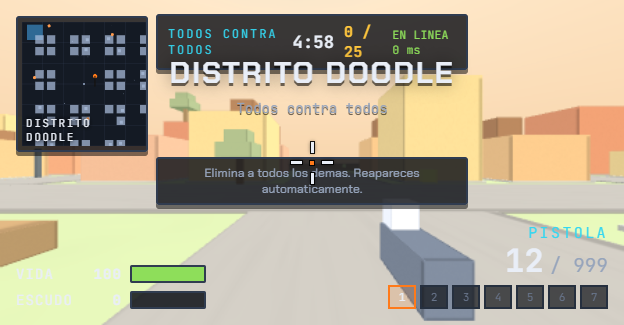
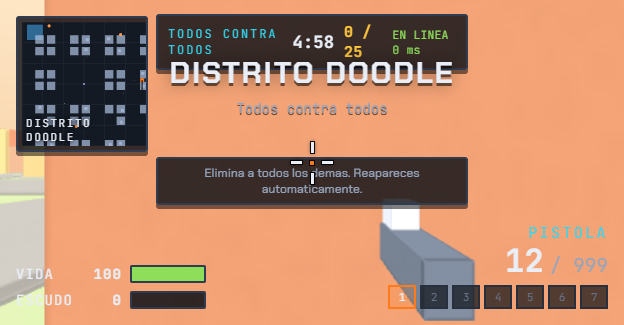
fix(multijugador): el campo del codigo de sala ya recibe el teclado
El juego capturaba el teclado a nivel global para WASD y se comia las letras al escribir en los formularios del menu: un codigo como 4WF2B no se podia teclear. Ahora la captura se desactiva cuando el foco esta en un input, textarea o select, lo que tambien arregla el campo del nombre y el atajo Ctrl+V.

Interfaz: el recuadro del codigo propio queda marcado como solo lectura (apagado) y el de unirse como editable (con contorno y fondo distintos), con etiquetas explicitas, boton PEGAR, mayusculas automaticas y Enter para unirse.

Herramientas: tools/typingtest.js escribe el codigo con pulsaciones reales de teclado y comprueba que el campo lo recibe.

diff --git a/tools/typingtest.js b/tools/typingtest.js
@@ -1,0 +1,166 @@
+/* Prueba de regresion: escribe un codigo de sala con pulsaciones REALES de teclado en el
+   campo de "unirse" y comprueba que el juego no se las come.
+   Uso: node tools/typingtest.js */
+'use strict';
+
+var child = require('child_process');
+var fs = require('fs');
+var path = require('path');
+var os = require('os');
+
+var ROOT = path.resolve(path.join(__dirname, '..'));
+var PORT = 8171;
+var CHROME = [
+  'C:\\Program Files\\Google\\Chrome\\Application\\chrome.exe',
+  'C:\\Program Files (x86)\\Google\\Chrome\\Application\\chrome.exe',
+  'C:\\Program Files (x86)\\Microsoft\\Edge\\Application\\msedge.exe',
+  'C:\\Program Files\\Microsoft\\Edge\\Application\\msedge.exe'
+].find(function (p) { return fs.existsSync(p); });
+
+function sleep(ms) { return new Promise(function (r) { setTimeout(r, ms); }); }
+function get(url) { return fetch(url).then(function (r) { return r.json(); }); }
+
+function Client(wsUrl) {
+  var self = this;
+  this.id = 0;
+  this.pending = new Map();
+  this.ws = new WebSocket(wsUrl);
+  this.ready = new Promise(function (resolve, reject) {
+    self.ws.addEventListener('open', function () { resolve(); });
+    self.ws.addEventListener('error', function () { reject(new Error('ws')); });
+  });
+  this.ws.addEventListener('message', function (ev) {
+    var m;
+    try { m = JSON.parse(ev.data); } catch (e) { return; }
+    if (m.id && self.pending.has(m.id)) {
+      var p = self.pending.get(m.id);
+      self.pending.delete(m.id);
+      m.error ? p.reject(new Error(m.error.message)) : p.resolve(m.result);
+    }
+  });
+}
+Client.prototype.send = function (method, params) {
+  var self = this;
+  this.id++;
+  var id = this.id;
+  return new Promise(function (resolve, reject) {
+    self.pending.set(id, { resolve: resolve, reject: reject });
+    self.ws.send(JSON.stringify({ id: id, method: method, params: params || {} }));
+    setTimeout(function () {
+      if (self.pending.has(id)) { self.pending.delete(id); reject(new Error('timeout ' + method)); }
+    }, 60000);
+  });
+};
+Client.prototype.eval = function (expr) {
+  return this.send('Runtime.evaluate', { expression: expr, returnByValue: true, awaitPromise: true })
+    .then(function (r) { return r && r.result ? r.result.value : undefined; });
+};
+
+var VK = { 'W': 87, 'A': 65, 'S': 83, 'D': 68, 'F': 70, 'Q': 81, 'E': 69, 'R': 82, 'V': 86, 'C': 67, 'B': 66, 'K': 75, 'M': 77, '4': 52, '2': 50, '7': 55, '8': 56 };
+function codeFor(ch) {
+  if (/[0-9]/.test(ch)) return 'Digit' + ch;
+  return 'Key' + ch.toUpperCase();
+}
+
+(async function main() {
+  if (!CHROME) { console.log('No se encontro Chrome ni Edge.'); process.exit(1); }
+  var server = child.spawn(process.execPath, [path.join(__dirname, 'serve.js'), String(PORT)], { stdio: 'ignore' });
+  var profile = path.join(os.tmpdir(), 'blockburst-type-' + Date.now());
+  var chrome = child.spawn(CHROME, [
+    '--headless=new', '--hide-scrollbars', '--mute-audio', '--no-first-run',
+    '--no-default-browser-check', '--disable-extensions', '--enable-unsafe-swiftshader',
+    '--use-angle=swiftshader', '--window-size=900,700',
+    '--remote-debugging-port=9271', '--user-data-dir=' + profile, 'about:blank'
+  ], { stdio: 'ignore' });
+
+  var fail = [];
+  function killTree(pid) { if (pid) { try { child.execSync('taskkill /F /T /PID ' + pid, { stdio: 'ignore' }); } catch (e) { } } }
+  function killStrays() {
+    try { child.execSync('powershell -NoProfile -ExecutionPolicy Bypass -File "' + path.join(__dirname, 'kill-chrome.ps1') + '"', { stdio: 'ignore' }); } catch (e) { }
+  }
+
+  try {
+    await sleep(1600);
+    var list = null;
+    for (var i = 0; i < 40; i++) {
+      try { list = await get('http://127.0.0.1:9271/json/list'); break; } catch (e) { await sleep(400); }
+    }
+    if (!list) throw new Error('sin respuesta de Chrome');
+    var page = list.filter(function (t) { return t.type === 'page'; })[0];
+    var c = new Client(page.webSocketDebuggerUrl);
+    await c.ready;
+    await c.send('Page.enable');
+    await c.send('Runtime.enable');
+
+    var url = 'http://127.0.0.1:' + PORT + '/index.html?lowq=1&fps=3';
+    for (var k = 0; k < 3; k++) {
+      await c.send('Page.navigate', { url: url });
+      await sleep(3800 + k * 1500);
+      var ok = await c.eval('!!(window.BLITZ && window.BLITZ.debug && document.getElementById("loading").hidden === true)');
+      if (ok) break;
+      console.log('  (reintento de carga)');
+    }
+    await c.eval('document.querySelector(\'[data-tab="multi"]\').click(); 1');
+    await sleep(600);
+
+    // El anfitrion crea la sala y nos da un codigo real
+    await c.eval('document.getElementById("btnCreateRoom").click(); 1');
+    var code = null;
+    for (var j = 0; j < 30; j++) {
+      await sleep(400);
+      code = await c.eval('window.BLITZ.Net.room');
+      if (code) break;
+    }
+    console.log('codigo generado por el juego: ' + code);
+
+    // Enfocar el campo de unirse y escribir con pulsaciones REALES
+    await c.eval('(function(){var i=document.getElementById("roomCodeIn");i.focus();i.value="";return 1;})()');
+    await sleep(300);
+    var typed = String(code || '4WF2B').toLowerCase();
+    for (var n = 0; n < typed.length; n++) {
+      var ch = typed.charAt(n);
+      var up = ch.toUpperCase();
+      var vk = VK[up] || up.charCodeAt(0);
+      await c.send('Input.dispatchKeyEvent', {
+        type: 'keyDown', text: ch, unmodifiedText: ch, key: ch,
+        code: codeFor(up), windowsVirtualKeyCode: vk, nativeVirtualKeyCode: vk
+      });
+      await c.send('Input.dispatchKeyEvent', {
+        type: 'keyUp', key: ch, code: codeFor(up),
+        windowsVirtualKeyCode: vk, nativeVirtualKeyCode: vk
+      });
+      await sleep(60);
+    }
+
+    var value = await c.eval('document.getElementById("roomCodeIn").value');
+    console.log('escrito con el teclado: ' + JSON.stringify(typed) + '  ->  campo: ' + JSON.stringify(value));
+    if (value !== typed.toUpperCase()) {
+      fail.push('el campo no recibio todo lo tecleado (esperado ' + typed.toUpperCase() + ', obtenido ' + value + ')');
+    }
+    if (!/^[A-Z0-9]{4,8}$/.test(String(value))) fail.push('el campo no contiene un codigo valido: ' + value);
+
+    // El boton de unirse debe quedar operativo (no lanzar excepcion y avisar de sala inexistente)
+    await c.eval('document.getElementById("btnJoinRoom").click(); 1');
+    await sleep(1500);
+    var st = await c.eval('document.getElementById("roomStateText").textContent');
+    console.log('estado tras pulsar Unirse: ' + JSON.stringify(st));
+
+    // Captura del panel para revisar la interfaz
+    try {
+      var shot = await c.send('Page.captureScreenshot', { format: 'png' });
+      var outDir = path.join(ROOT, 'docs');
+      if (!fs.existsSync(outDir)) fs.mkdirSync(outDir, { recursive: true });
+      fs.writeFileSync(path.join(outDir, 'captura-unirse.png'), Buffer.from(shot.data, 'base64'));
+      console.log('captura del panel: docs/captura-unirse.png');
+    } catch (e) { }
+  } catch (err) {
+    fail.push(err.message);
+  } finally {
+    killTree(chrome.pid);
+    killTree(server.pid);
+    killStrays();
+  }
+
+  console.log(fail.length ? ('FALLOS: ' + fail.join(' | ')) : 'Campo de codigo verificado: se puede escribir con el teclado.');
+  process.exit(fail.length ? 1 : 0);
+})();

diff --git a/src/main.js b/src/main.js
@@ -164,26 +164,30 @@
       '<div class="panel" style="padding:16px;display:grid;gap:14px">' +
         '<div class="netState ' + stateKind + '" id="roomState"><i></i><span id="roomStateText" class="mono">' + B.esc(stateText) + '</span></div>' +
 
-        '<div id="roomOpenBox" style="display:' + (inRoom && host ? "grid" : "none") + ';gap:10px">' +
-          '<label class="field"><span>Codigo de la sala (pasalo a quien quieras invitar)</span></label>' +
+        '<div id="roomOpenBox" style="display:' + (inRoom && host ? "grid" : "none") + ';gap:8px">' +
+          '<label class="field"><span>Tu codigo de sala (solo lectura, se copia con el boton)</span></label>' +
           '<div style="display:flex;gap:10px;align-items:stretch;flex-wrap:wrap">' +
-            '<input id="roomCodeOut" class="netCode" style="min-height:44px;flex:1;min-width:180px" readonly value="' + B.esc(B.Net.room || "") + '">' +
+            '<input id="roomCodeOut" class="netCode readonly" style="min-height:44px;flex:1;min-width:180px" readonly value="' + B.esc(B.Net.room || "") + '">' +
             '<button id="btnCopyRoom" class="btn">COPIAR</button>' +
+            '<button id="btnCopyInvite" class="btn">COPIAR INVITACION</button>' +
           '</div>' +
         '</div>' +
 
         '<div style="display:flex;gap:10px;flex-wrap:wrap">' +
           '<button id="btnCreateRoom" class="btn primary"' + (inRoom ? " disabled" : "") + '>CREAR SALA</button>' +
-          '<button id="btnCopyInvite" class="btn">COPIAR INVITACION</button>' +
           '<button id="btnCloseRoom" class="btn"' + (inRoom ? "" : " disabled") + '>CERRAR SALA</button>' +
         '</div>' +
 
-        '<div style="display:grid;gap:10px">' +
-          '<label class="field"><span>Unirse con un codigo</span></label>' +
-        '</div>' +
-        '<div style="display:flex;gap:10px;flex-wrap:wrap">' +
-          '<input id="roomCodeIn" class="netCode" style="min-height:44px;flex:1;min-width:160px" placeholder="Escribe el codigo, por ejemplo K7M2P" maxlength="8">' +
-          '<button id="btnJoinRoom" class="btn primary"' + (inRoom ? " disabled" : "") + '>UNIRSE</button>' +
+        '<div style="border-top:2px solid var(--line-soft);padding-top:14px;display:grid;gap:8px">' +
+          '<label class="field"><span>Aqui si se escribe: si te han dado un codigo, unete</span></label>' +
+          '<div style="display:flex;gap:10px;flex-wrap:wrap">' +
+            '<input id="roomCodeIn" class="netCode write" style="min-height:46px;flex:1;min-width:170px;text-transform:uppercase;letter-spacing:0.22em" placeholder="Escribe el codigo, por ejemplo K7M2P" maxlength="8" autocomplete="off" spellcheck="false">' +
+            '<button id="btnPasteRoom" class="btn">PEGAR</button>' +
+            '<button id="btnJoinRoom" class="btn primary"' + (inRoom ? " disabled" : "") + '>UNIRSE</button>' +
+          '</div>' +
+          '<p class="dim" id="joinHint" style="font-size:12.5px;margin:0">' +
+            (inRoom ? "Estas dentro de una sala: cierrala si quieres unirte a otra." : "Pulsa primero en el recuadro y escribe; o pulsa PEGAR si lo copiaste.") +
+          '</p>' +
         '</div>' +
 
         '<div style="display:grid;gap:8px">' +
@@ -383,6 +387,29 @@
 
     var cr = $("btnCreateRoom"); if (cr) cr.addEventListener("click", function () { openRoom(true); });
     var jr = $("btnJoinRoom"); if (jr) jr.addEventListener("click", function () { openRoom(false); });
+    var ci2 = $("roomCodeIn");
+    if (ci2) {
+      ci2.addEventListener("input", function () { ci2.value = ci2.value.toUpperCase().replace(/[^A-Z0-9]/g, ""); });
+      ci2.addEventListener("keydown", function (ev) {
+        if (ev.key === "Enter") { ev.preventDefault(); openRoom(false); }
+      });
+    }
+    var bp = $("btnPasteRoom");
+    if (bp) bp.addEventListener("click", function () {
+      B.Audio.ui();
+      try {
+        if (navigator.clipboard && navigator.clipboard.readText) {
+          navigator.clipboard.readText().then(function (t) {
+            var clean = String(t || "").toUpperCase().replace(/[^A-Z0-9]/g, "").slice(0, 8);
+            if (!clean) { roomState("bad", "El portapapeles esta vacio o no tiene un codigo."); return; }
+            if (ci2) { ci2.value = clean; ci2.focus(); }
+            roomState("warn", "Codigo pegado: " + clean + ". Pulsa UNIRSE.");
+          }, function () { roomState("warn", "El navegador no dejo leer el portapapeles; escribe el codigo a mano."); });
+          return;
+        }
+      } catch (e) { }
+      roomState("warn", "Pega a mano con Ctrl+V dentro del recuadro.");
+    });
     var sr = $("btnStartRoom"); if (sr) sr.addEventListener("click", function () { B.Audio.ui(); startRoomMatch(); });
     var xr = $("btnCloseRoom"); if (xr) xr.addEventListener("click", function () { closeRoom(false); });
     var cp = $("btnCopyRoom"); if (cp) cp.addEventListener("click", copyRoomCode);

diff --git a/styles/ui.css b/styles/ui.css
@@ -380,6 +380,20 @@ input[type="range"]:focus-visible { outline: 3px solid var(--cyan); outline-offs
   font-family: var(--mono-font); font-size: 11.5px; word-break: break-all; resize: vertical;
 }
 .netCode:focus-visible { outline: 3px solid var(--cyan); outline-offset: 1px; }
+/* Recuadro de solo lectura: se ve apagado para dejar claro que ahi no se escribe */
+.netCode.readonly {
+  background: rgba(13, 16, 22, 0.85); color: var(--ink-dim); cursor: default;
+  font-size: 17px; letter-spacing: 0.22em; text-align: center;
+}
+/* Recuadro donde si se escribe: fondo claro y cursor de texto */
+.netCode.write {
+  background: #26303f; color: var(--ink); cursor: text; font-size: 17px; text-align: center;
+  border: 3px solid var(--line); border-color: #5a6f92; caret-color: var(--accent);
+  box-shadow: inset 0 2px 0 rgba(0, 0, 0, 0.35);
+}
+.netCode.write:hover { border-color: #6f88b0; }
+.netCode.write:focus { border-color: var(--accent); background: #2b3648; }
+.netCode.write::placeholder { color: #7f8da3; letter-spacing: 0.04em; font-size: 13px; }
 .netState {
   display: flex; align-items: center; gap: 9px; font-family: var(--mono-font); font-size: 13px;
   padding: 9px 11px; border: 2px solid var(--line); border-radius: var(--radius); background: var(--panel-2);

diff --git a/src/input.js b/src/input.js
@@ -20,7 +20,16 @@
     Digit3: 1, Digit4: 1, Digit5: 1, Digit6: 1, Digit7: 1, KeyR: 1, KeyV: 1, KeyC: 1, KeyF: 1
   };
 
+  /* No secuestrar el teclado cuando se escribe en un campo del menu */
+  function isTyping(e) {
+    var t = e.target;
+    if (!t) return false;
+    var tag = (t.tagName || "").toLowerCase();
+    return tag === "input" || tag === "textarea" || tag === "select" || t.isContentEditable === true;
+  }
+
   function onKeyDown(e) {
+    if (isTyping(e)) return;
     if (e.repeat) {
       if (BLOCK[e.code]) e.preventDefault();
       return;
@@ -32,6 +41,7 @@
   }
 
   function onKeyUp(e) {
+    if (isTyping(e)) return;
     keys[e.code] = false;
     if (BLOCK[e.code]) e.preventDefault();
   }
